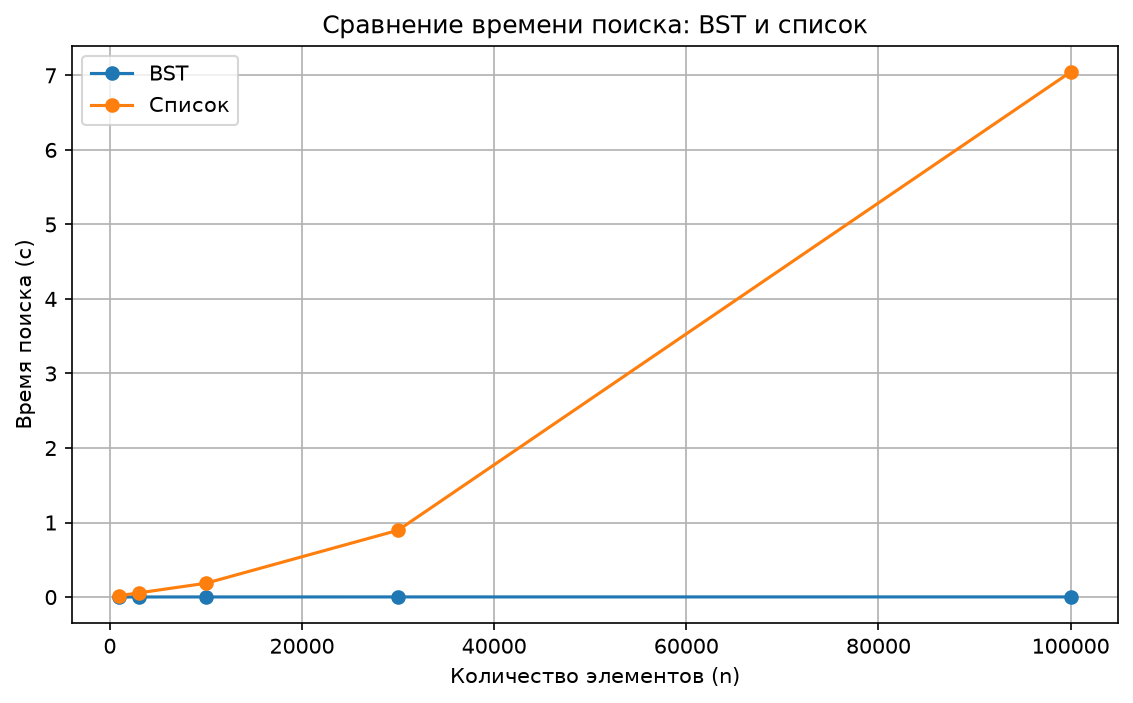
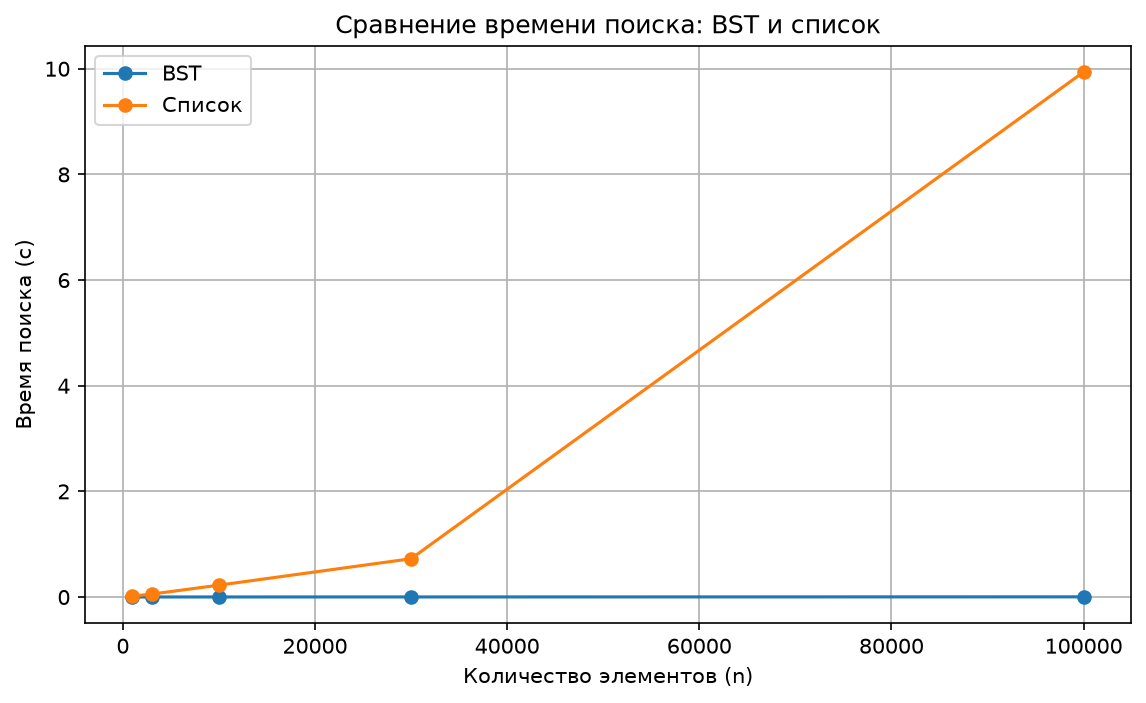
Fix delete method

diff --git a/M3-trees/attachments/lab05-bst-starter.py b/M3-trees/attachments/lab05-bst-starter.py
@@ -40,8 +40,12 @@ class BST:
     """Бинарное дерево поиска без дубликатов ключей.
 
     Инвариант: для каждого узла все ключи левого поддерева меньше key,
-    все ключи правого — больше. Ожидаемая сложность операций: TODO
-    (выразить через высоту h и обосновать в отчёте).
+    все ключи правого — больше. 
+    Сложность операций:
+    - insert, search, delete: O(h + 1), где h — высота дерева;
+    - в среднем для случайного BST: O(log n);
+    - в худшем случае: O(n), когда дерево вырождается в цепочку;
+    - обходы, height и size: O(n).
     """
 
     def __init__(self) -> None:
@@ -90,135 +94,180 @@ class BST:
             else:
                 return True
 
-    def delete(self, key: int) -> None:
-        """Удаление ключа. Обработать три случая:
+    # def delete(self, key: int) -> None:
+    #     """Удаление ключа. Обработать три случая:
 
-        1) лист — просто отцепить от родителя;
-        2) один ребёнок — заменить узел его ребёнком;
-        3) два ребёнка — заменить ключ преемником (минимум правого
-           поддерева) и удалить преемника из правого поддерева.
-        Отсутствующий ключ игнорируется.
-        """
-        # TODO: реализовать все три случая
-        if self.root is None:
-            return
+    #     1) лист — просто отцепить от родителя;
+    #     2) один ребёнок — заменить узел его ребёнком;
+    #     3) два ребёнка — заменить ключ преемником (минимум правого
+    #        поддерева) и удалить преемника из правого поддерева.
+    #     Отсутствующий ключ игнорируется.
+    #     """
+    #     # TODO: реализовать все три случая
+    #     if self.root is None:
+    #         return
         
-        i = self.root # Корень дерева
-        pr = None # Предыдущее дерево
-        ir = i.right # Правое поддерево
-        il = i.left # Левое поддерево
-        side = None # Сторона прохода
+    #     i = self.root # Корень дерева
+    #     pr = None # Предыдущее дерево
+    #     ir = i.right # Правое поддерево
+    #     il = i.left # Левое поддерево
+    #     side = None # Сторона прохода
 
-        while True:
-            if i.key > key:
-                if il is not None:
-                    pr = i # Присваивание прошлого узла
-                    i = il 
-                    il = i.left 
-                    ir = i.right
-                    side = "left"
-                else:
-                    return
-            elif i.key < key:
-                if ir is not None:
-                    pr = i
-                    i = ir
-                    ir = i.right
-                    il = i.left
-                    side = "right"
-                else:
-                    return
-            elif i.key == key:
-                if pr is not None:
-                    if side == "right":
-                        # Если нет поддереьев
-                        if il is None and ir is None:
-                            pr.right = None
-                        # Если есть левое поддерево
-                        elif il and ir is None:
-                                pr.right = il
-                        # Если есть правое поддерево
-                        elif ir and il is None:
-                            pr.right = ir
-                        # Если есть два поддерева
-                        else:
-                            # Если приемник в глубине правого дерева
-                            if ir.left:
-                                temp = i.right
-                                pr_temp = i
-                                while temp.left is not None:
-                                    pr_temp = temp
-                                    temp = temp.left
+    #     while True:
+    #         if i.key > key:
+    #             if il is not None:
+    #                 pr = i # Присваивание прошлого узла
+    #                 i = il 
+    #                 il = i.left 
+    #                 ir = i.right
+    #                 side = "left"
+    #             else:
+    #                 return
+    #         elif i.key < key:
+    #             if ir is not None:
+    #                 pr = i
+    #                 i = ir
+    #                 ir = i.right
+    #                 il = i.left
+    #                 side = "right"
+    #             else:
+    #                 return
+    #         elif i.key == key:
+    #             if pr is not None:
+    #                 if side == "right":
+    #                     # Если нет поддереьев
+    #                     if il is None and ir is None:
+    #                         pr.right = None
+    #                     # Если есть левое поддерево
+    #                     elif il and ir is None:
+    #                             pr.right = il
+    #                     # Если есть правое поддерево
+    #                     elif ir and il is None:
+    #                         pr.right = ir
+    #                     # Если есть два поддерева
+    #                     else:
+    #                         # Если приемник в глубине правого дерева
+    #                         if ir.left:
+    #                             temp = i.right
+    #                             pr_temp = i
+    #                             while temp.left is not None:
+    #                                 pr_temp = temp
+    #                                 temp = temp.left
 
-                                pr_temp.left = temp.right
-                                i.key = temp.key
+    #                             pr_temp.left = temp.right
+    #                             i.key = temp.key
 
-                            # Если приемник в правом поддерерве
-                            elif ir.left is None:
-                                temp = i.right
-                                i.key = temp.key
-                                i.right = temp.right
+    #                         # Если приемник в правом поддерерве
+    #                         elif ir.left is None:
+    #                             temp = i.right
+    #                             i.key = temp.key
+    #                             i.right = temp.right
 
-                    elif side == "left":
-                        # Если нет поддереьев
-                        if il is None and ir is None:
-                            pr.left = None
-                        # Если есть левое поддерево
-                        elif il and ir is None:
-                                pr.left = il
-                        # Если есть правое поддерево
-                        elif ir and il is None:
-                            pr.left = ir
-                        # Если есть два поддерева
-                        else:
-                            # Если приемник в глубине правого дерева
-                            if ir.left:
-                                temp = i.right
-                                pr_temp = i
-                                while temp.left is not None:
-                                    pr_temp = temp
-                                    temp = temp.left
+    #                 elif side == "left":
+    #                     # Если нет поддереьев
+    #                     if il is None and ir is None:
+    #                         pr.left = None
+    #                     # Если есть левое поддерево
+    #                     elif il and ir is None:
+    #                             pr.left = il
+    #                     # Если есть правое поддерево
+    #                     elif ir and il is None:
+    #                         pr.left = ir
+    #                     # Если есть два поддерева
+    #                     else:
+    #                         # Если приемник в глубине правого дерева
+    #                         if ir.left:
+    #                             temp = i.right
+    #                             pr_temp = i
+    #                             while temp.left is not None:
+    #                                 pr_temp = temp
+    #                                 temp = temp.left
 
-                                pr_temp.left = temp.right
-                                i.key = temp.key
+    #                             pr_temp.left = temp.right
+    #                             i.key = temp.key
 
-                            # Если приемник в правом поддерерве
-                            elif ir.left is None:
-                                temp = i.right
-                                i.key = temp.key
-                                i.right = temp.right
+    #                         # Если приемник в правом поддерерве
+    #                         elif ir.left is None:
+    #                             temp = i.right
+    #                             i.key = temp.key
+    #                             i.right = temp.right
 
-                else:
+    #             else:
 
-                    if il is None and ir is None:
-                        self.root = None
+    #                 if il is None and ir is None:
+    #                     self.root = None
 
-                    elif il and ir is None:
-                        self.root = il
+    #                 elif il and ir is None:
+    #                     self.root = il
                         
-                    elif ir and il is None:
-                        self.root = ir
+    #                 elif ir and il is None:
+    #                     self.root = ir
 
-                    elif il and ir:
-                        if ir.left:
-                            temp = i.right
-                            pr_temp = i
-                            while temp.left is not None:
-                                pr_temp = temp
-                                temp = temp.left
+    #                 elif il and ir:
+    #                     if ir.left:
+    #                         temp = i.right
+    #                         pr_temp = i
+    #                         while temp.left is not None:
+    #                             pr_temp = temp
+    #                             temp = temp.left
 
-                            pr_temp.left = temp.right
-                            i.key = temp.key
-                        else:   
-                            temp = i.right
-                            i.key = temp.key
-                            i.right = temp.right
+    #                         pr_temp.left = temp.right
+    #                         i.key = temp.key
+    #                     else:   
+    #                         temp = i.right
+    #                         i.key = temp.key
+    #                         i.right = temp.right
 
-                break
+    #             break
+
+
+    def delete(self, key: int) -> None:
+        """Удаление ключа из BST."""
+        current = self.root
+        parent = None
+        while current is not None and current.key != key:
+            parent = current
+
+            if key < current.key:
+                current = current.left
+            else:
+                current = current.right
+
+        if current is None:
+            return
+        # Удаление узла с двумя детьми
+        if current.left is not None and current.right is not None:
+            successor_parent = current
+            successor = current.right
+
+            while successor.left is not None:
+                successor_parent = successor
+                successor = successor.left
+
+            current.key = successor.key
+            current = successor
+            parent = successor_parent
+
+        # Удаление узла с нулём или одним ребёнком
+        if current.left is not None:
+            child = current.left
+        else:
+            child = current.right
+
+        # Подключение ребёнка к родителю
+        if parent is None:
+            self.root = child
+
+        elif parent.left is current:
+           parent.left = child
+
+        else:
+            parent.right = child
 
     # -- Обходы --------------------------------------------------------------
 
     def in_order(self) -> list[int]:
+        """Симметричеый обход (левое - узел - правое)."""
         result = []
 
         def traverse(node: Node | None):
